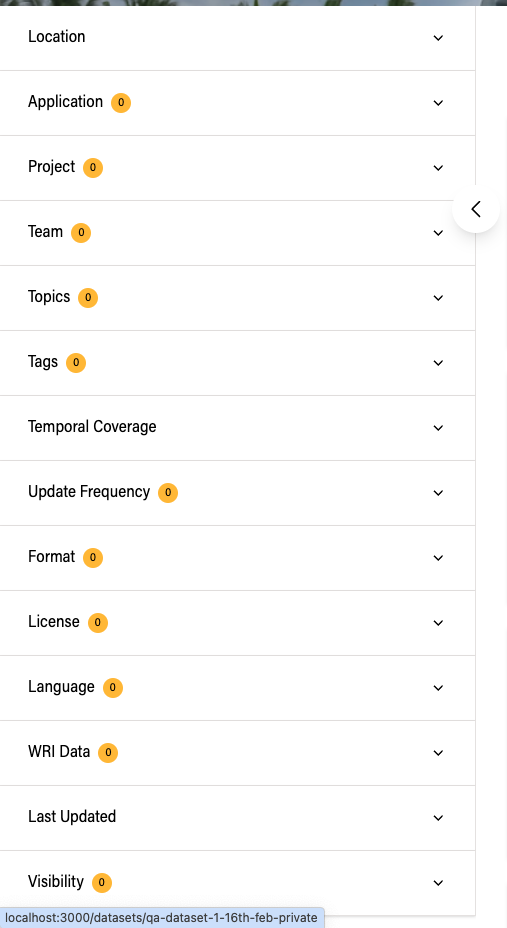
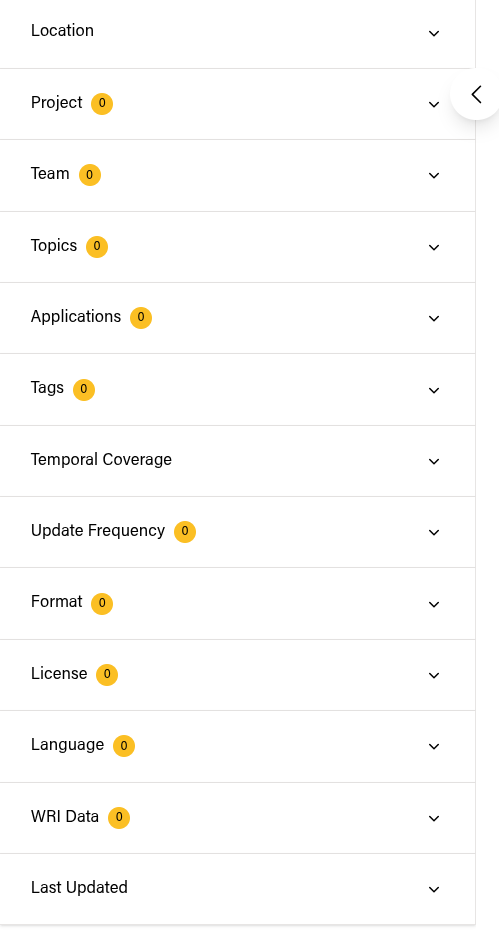
Update docs

diff --git a/docs/search/README.md b/docs/search/README.md
@@ -2,19 +2,19 @@
 
 ## Advanced search
 
-Users can find advanced search on `/search_advanced`.
+Users can find advanced search on `/search`.
 
-![Advanced search page](./advanced_search.png)
+![Search page](./search.png)
 
 ### Facets
 
 With this feature, it's possible to filter datasets by the following facets:
 
 - Location
-- Application
 - Project
 - Team
 - Topics
+- Applications
 - Tags
 - Temporal Coverage (start and end)
 - Update Frequency
@@ -22,7 +22,7 @@ With this feature, it's possible to filter datasets by the following facets:
 - License
 - Language
 - WRI Data (Yes or no)
-- Visibility
+- Visibility (Only if logged in)
 
 ![Facets](./facets.png)
 
@@ -37,7 +37,7 @@ Note that it's also possible to search by keyword, which will match a variety of
 - License
 - Language
 - Project
-- Application
+- Applications
 - Temporal Coverage
 - Update Frequency
 - Visibility
@@ -70,38 +70,35 @@ Available sorting options are:
 
 ### Share search URL
 
-When a user searches on the advanced search page, the URL gets updated containing the state of the current page. This URL can be shared with other users, which will be able to see the same results.
+When a user searches on the search page, the URL gets updated containing the state of the current page. This URL can be shared with other users, which will be able to see the same results.
 
 ### Dataset metadata
 
 Results are displayed using the following card:
 
-![Dataset Card](./car.png)
+![Dataset Card](./card.png)
 
-1. Team
-2. Title
-3. Short description
-4. Last updated
-5. Temporal coverage
-6. Location
-7. Has chart view
-8. Has map view
-9. Has tabular view
-10. Has cautions
-11. Formats of the data files
+As you can see we have the title at the top, the description below, and in the bottom the team name for that dataset and the last updated date, on the side we have the available formats for that particular dataset, which in this case would be "Layer" and "TIF"
 
 ### Location search
 
 When creating or editing datasets, there are two options to index a dataset spatially:
 
+![Location coverage](./location_coverage.png)
+
 1. Upload a GeoJSON file
 2. Choose a location string
+3. Set the dataset as global
+4. Derive the location from the daafiles
 
-After a dataset is spatially indexed, it will show up on location searches on the advanced search page.
+After a dataset is spatially indexed, it will show up on location searches on the search page.
 
 #### GeoJSON file
 
-Datasets spatially indexed by uploading a GeoJSON file will be shown on results when the search query has a "ext_spatial_q:x,y" parameter which defines a point within the uploaded shape.
+Datasets spatially indexed by uploading a GeoJSON file will be shown on results based on the following algorithm
+
+1. If you type in the search bar a country or a province/state we will try to grab that place boundaries from the GADM Datasets, and then check if the GeoJSON intersects somewhere with that boundary
+2. If what you type can be seen as a city, we will grab the coordinates from it, and check if the GeoJSON uploaded contains that point inside
 
 #### Location string
 
@@ -111,3 +108,13 @@ Example: if a dataset is indexed with location string set to "Paraná, Brazil", 
 
 1. Pato Branco, Paraná, Brazil
 2. Paraná, Brazil
+
+#### Global Dataset
+
+This is just a special address that makes the dataset always shows up in the location search unless specifically requested to exclude global datasets
+
+#### Derived from datafiles
+
+As it is explained on the `datafile-location-search` docs, the collection of files that a dataset has(Datafiles) can also have additional metadata attached to each individual item, this means that you can add a GeoJSON, 
+a location string or set the datafile as global same as the dataset, if your datafiles contain GeoJSONs, and you select this option for the dataset as a whole, the system will try to merge all of these GeoJSONs into a single
+polygon and use that as the dataset location
